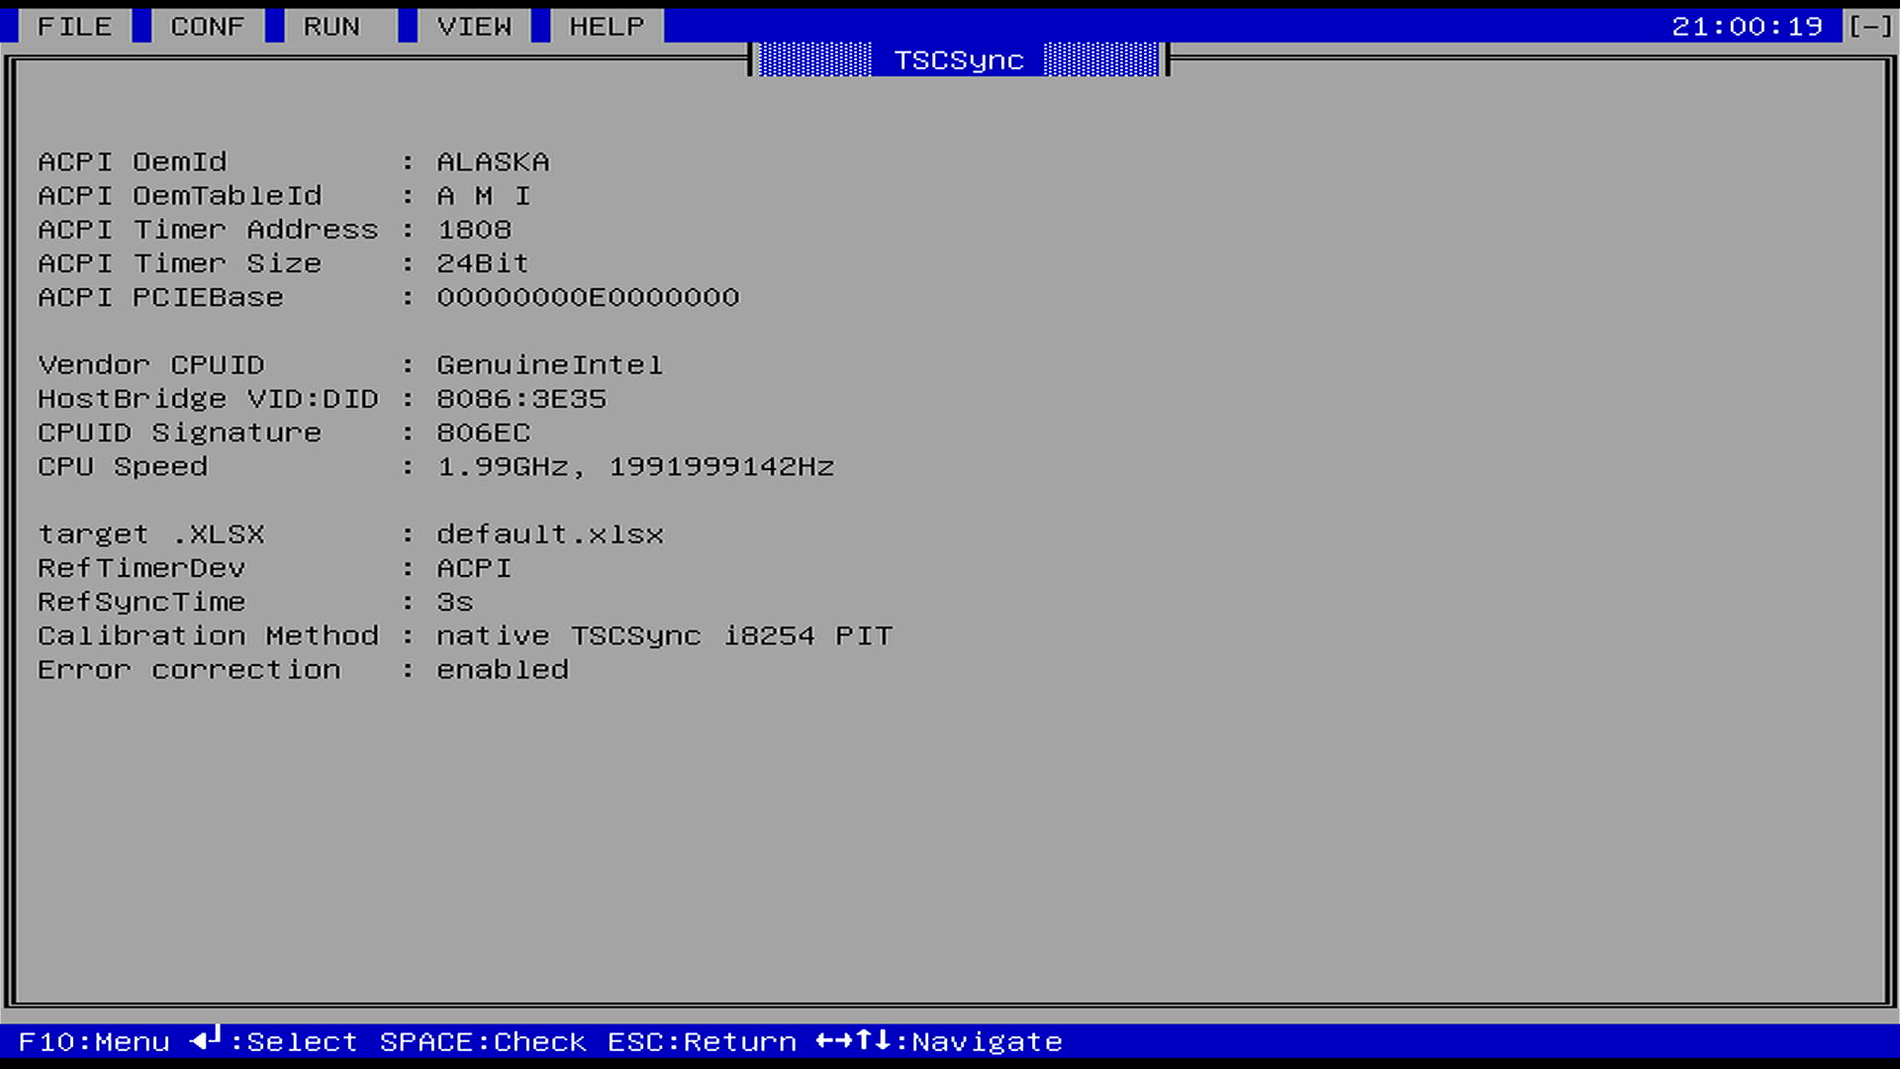
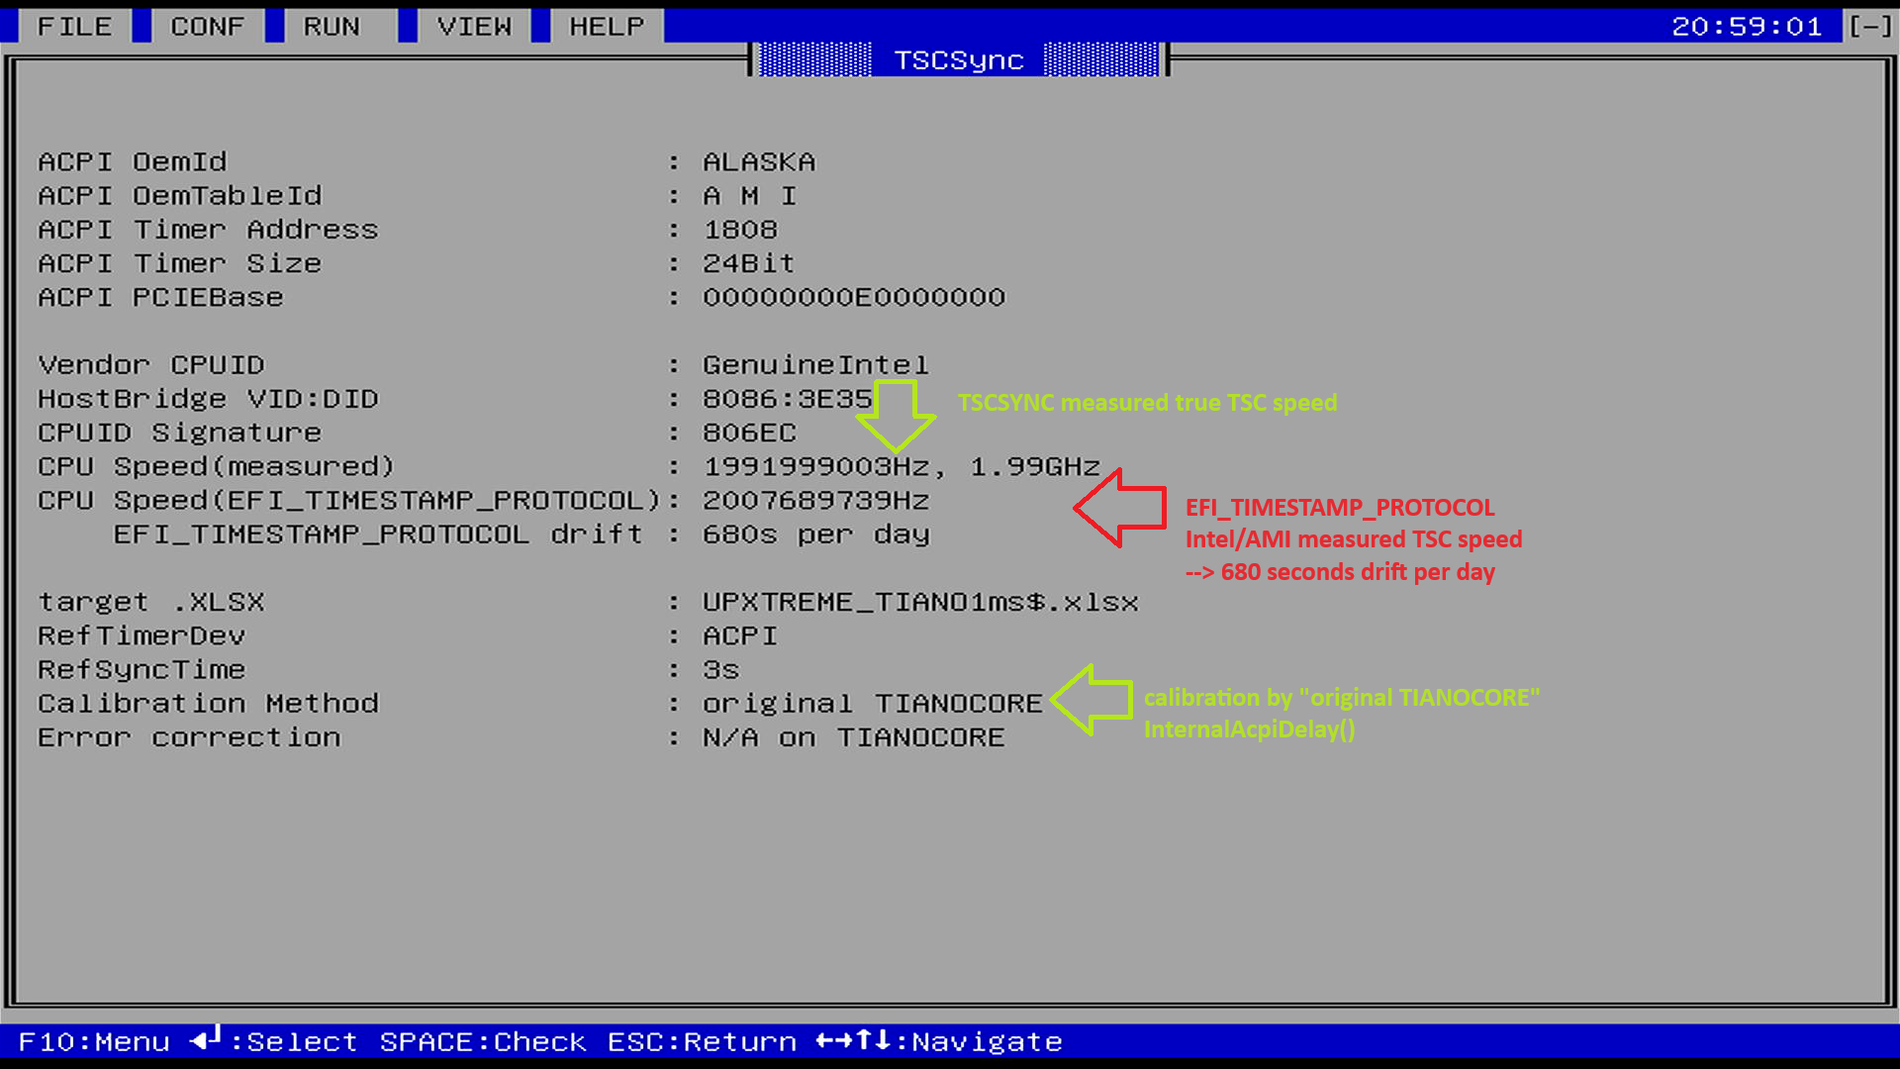
### 20231202 * add retrieval, examination and comparison of original UEFI EFI_TIMESTAMP_PROTOCOL

diff --git a/TSCSync/main.cpp b/TSCSync/main.cpp
@@ -48,6 +48,7 @@ Author:
 #include "LibWin324UEFI.h"
 
 #include <Protocol\AcpiTable.h>
+#include <Protocol\Timestamp.h>
 #include <Guid\Acpi.h>
 #include <IndustryStandard/Acpi62.h>
 #include <IndustryStandard/MemoryMappedConfigurationSpaceAccessTable.h>
@@ -94,6 +95,7 @@ extern "C" WINBASEAPI uint64_t WINAPI GetTickCount64(VOID);
 
 extern void (*rgcbAtUpdate[32])(void* pThis, void* pBox, void* pContext, void* pParm);
 extern void* rgcbAtUpdateParms[32][3];	// array of parameters: void* pThis, void* pBox, void* pContext
+extern "C" char* _strefierror(EFI_STATUS);
 
 #define TYPE char
 #define TYPESIZE sizeof(TYPE)
@@ -171,19 +173,23 @@ extern "C" int  gfErrorCorrection;
 /////////////////////////////////////////////////////////////////////////////
 // global shared data
 /////////////////////////////////////////////////////////////////////////////
-char gstrACPISignature[16];
-char gstrACPIOemId[16];
-char gstrACPIOemTableId[16];
-char gstrACPIPmTmrBlkAddr[8];
-char gACPIPmTmrBlkSize[8];
-char gACPIPCIEBase[24];
+char gstrACPISignature[128];
+char gstrACPIOemId[128];
+char gstrACPIOemTableId[128];
+char gstrACPIPmTmrBlkAddr[128];
+char gACPIPmTmrBlkSize[128];
+char gACPIPCIEBase[128];
 
-char gstrCPUID0[32];
-char gstrCPUIDSig[32];
-char gstrCPUIDFam[32];
-char gstrCPUIDMod[32];
-char gstrCPUIDStp[32];
-char gstrCPUSpeed[48];
+char gstrCPUID0[128];
+char gstrCPUIDSig[128];
+char gstrCPUIDFam[128];
+char gstrCPUIDMod[128];
+char gstrCPUIDStp[128];
+char gstrCPUSpeed[128];
+int64_t gTIMESTAMP_PROTOCOLPerSec;
+int64_t gTIMESTAMP_PROTOCOLSecDriftPerDay;
+char gstrTIMESTAMP_PROTOCOL[128];
+int64_t gTIMESTAMP_PROTOCOLDriftPerDay;
 extern "C" uint32_t gCOUNTER_WIDTH;
 
 int64_t(*pfnDelay)(uint32_t  Delay) = &InternalAcpiDelay;
@@ -218,8 +224,8 @@ static struct {
 		" 2.755ms","29583","363",
 		3 * 3287,363 , &gfCfgMngMnuItm_Config_ACPIDelaySelect3, &statbuf4DiffTSC[2 * MAXNUM], &statbuf4DriftSecPerDay[2 * MAXNUM]},
 	{
-		"144.99us","519","6897",
-		3 * 173,6897 , &gfCfgMngMnuItm_Config_ACPIDelaySelect4, &statbuf4DiffTSC[3 * MAXNUM], &statbuf4DriftSecPerDay[3 * MAXNUM]},
+		" 1.000ms","3579","1000",
+		3579,1000 , &gfCfgMngMnuItm_Config_ACPIDelaySelect4, &statbuf4DiffTSC[3 * MAXNUM], &statbuf4DriftSecPerDay[3 * MAXNUM]},
 	{	"101.41us","363","9861",
 		3 * 121,9861 , &gfCfgMngMnuItm_Config_ACPIDelaySelect5, &statbuf4DiffTSC[4 * MAXNUM], &statbuf4DriftSecPerDay[4 * MAXNUM]},
 };
@@ -563,24 +569,23 @@ int fnMnuItm_File_SaveAs(CTextWindow* pThis, void* pContext, void* pParm)
 			{
 				char strtmp[4* 64];
 				sprintf(strtmp, "TSCSync generated Excel Table\n\nAnalyzing platform timer characteristics\n\n"), worksheet_write_string(worksheet, CELL("B1"), strtmp, bold);
-				sprintf(strtmp, "ACPI OemId         : %s", gstrACPIOemId), worksheet_write_string(worksheet, CELL("B2"), strtmp, bold);
-				sprintf(strtmp, "ACPI OemTableId    : %s", gstrACPIOemTableId), worksheet_write_string(worksheet, CELL("B3"), strtmp, bold);
-				sprintf(strtmp, "ACPI Timer Address : %s", gstrACPIPmTmrBlkAddr), worksheet_write_string(worksheet, CELL("B4"), strtmp, bold);
-				sprintf(strtmp, "ACPI Timer Size    : %s", gACPIPmTmrBlkSize), worksheet_write_string(worksheet, CELL("B5"), strtmp, bold);
-				sprintf(strtmp, "ACPI PCIEBase      : %s", gACPIPCIEBase), worksheet_write_string(worksheet, CELL("B6"), strtmp, bold);
-				sprintf(strtmp, "Vendor CPUID       : %s", gstrCPUID0), worksheet_write_string(worksheet, CELL("B7"), strtmp, bold);
-				sprintf(strtmp, "HostBridge VID:DID : %02X:%02X",((uint16_t*)pMCFG->BaseAddress)[0],((uint16_t*)pMCFG->BaseAddress)[1]), 
-					worksheet_write_string(worksheet, CELL("B8"), strtmp, bold);
-				sprintf(strtmp, "CPUID Signature    : %s", gstrCPUIDSig), worksheet_write_string(worksheet, CELL("B9"), strtmp, bold);
-				//sprintf(strtmp, "Family ID          : %s", gstrCPUIDFam), worksheet_write_string(worksheet, CELL("B10"), strtmp, bold);
-				//sprintf(strtmp, "Model  ID          : %s", gstrCPUIDMod), worksheet_write_string(worksheet, CELL("B11"), strtmp, bold);
-				//sprintf(strtmp, "Stepping ID        : %s", gstrCPUIDStp), worksheet_write_string(worksheet, CELL("B12"), strtmp, bold);
-				sprintf(strtmp, "CPU Speed          : %s", gstrCPUSpeed), worksheet_write_string(worksheet, CELL("B10"), strtmp, bold);
-				sprintf(strtmp, "target .XLSX       : %s", gCfgStr_File_SaveAs), worksheet_write_string(worksheet, CELL("B11"), strtmp, bold);
-                sprintf(strtmp, "RefTimerDev        : %s", 2 == gfCfgSyncRef012 ? "PIT" : (1 == gfCfgSyncRef012 ? "RTC" : "ACPI")), worksheet_write_string(worksheet, CELL("B12"), strtmp, bold);//0 -> ACPI, 1 -> RTC, 2 -> PIT
-				sprintf(strtmp, "RefSyncTime        : %ds", gnCfgRefSyncTime), worksheet_write_string(worksheet, CELL("B13"), strtmp, bold);
-				sprintf(strtmp, "Calibration Method : %s", gCfgStr_CalibrMethod), worksheet_write_string(worksheet, CELL("B14"), strtmp, bold);
-                sprintf(strtmp, "Error correction   : %s", 0 == gfErrorCorrection ? "disabled" : (pfnDelay == &InternalAcpiDelay ? "N/A on TIANOCORE" : "enabled")), worksheet_write_string(worksheet, CELL("B15"), strtmp, bold);
+				sprintf(strtmp, "ACPI OemId: %s", gstrACPIOemId), worksheet_write_string(worksheet, CELL("B2"), strtmp, bold);
+				sprintf(strtmp, "ACPI OemTableId: %s", gstrACPIOemTableId), worksheet_write_string(worksheet, CELL("B3"), strtmp, bold);
+				sprintf(strtmp, "ACPI Timer Address: %s", gstrACPIPmTmrBlkAddr), worksheet_write_string(worksheet, CELL("B4"), strtmp, bold);
+				sprintf(strtmp, "ACPI Timer Size: %s", gACPIPmTmrBlkSize), worksheet_write_string(worksheet, CELL("B5"), strtmp, bold);
+				sprintf(strtmp, "ACPI PCIEBase: %s", gACPIPCIEBase), worksheet_write_string(worksheet, CELL("B6"), strtmp, bold);
+				sprintf(strtmp, "Vendor CPUID: %s", gstrCPUID0), worksheet_write_string(worksheet, CELL("B7"), strtmp, bold);
+				sprintf(strtmp, "HostBridge VID:DID: %02X:%02X",((uint16_t*)pMCFG->BaseAddress)[0],((uint16_t*)pMCFG->BaseAddress)[1]), worksheet_write_string(worksheet, CELL("B8"), strtmp, bold);
+				sprintf(strtmp, "CPUID Signature: %s", gstrCPUIDSig), worksheet_write_string(worksheet, CELL("B9"), strtmp, bold);
+				sprintf(strtmp, "CPU Speed(measured): %s", gstrCPUSpeed), worksheet_write_string(worksheet, CELL("B10"), strtmp, bold);
+				sprintf(strtmp, "CPU Speed(EFI_TIMESTAMP_PROTOCOL): %s", gstrTIMESTAMP_PROTOCOL), worksheet_write_string(worksheet, CELL("B11"), strtmp, bold);
+				if (0 != strncmp(gstrTIMESTAMP_PROTOCOL, "N/A", strlen("N/A")))
+					sprintf(strtmp, "    EFI_TIMESTAMP_PROTOCOL drift : %llds per day", gTIMESTAMP_PROTOCOLSecDriftPerDay), worksheet_write_string(worksheet, CELL("B12"), strtmp, bold);
+				sprintf(strtmp, "target .XLSX: %s", gCfgStr_File_SaveAs), worksheet_write_string(worksheet, CELL("B13"), strtmp, bold);
+                sprintf(strtmp, "RefTimerDev: %s", 2 == gfCfgSyncRef012 ? "PIT" : (1 == gfCfgSyncRef012 ? "RTC" : "ACPI")), worksheet_write_string(worksheet, CELL("B14"), strtmp, bold);//0 -> ACPI, 1 -> RTC, 2 -> PIT
+				sprintf(strtmp, "RefSyncTime: %ds", gnCfgRefSyncTime), worksheet_write_string(worksheet, CELL("B15"), strtmp, bold);
+				sprintf(strtmp, "Calibration Method: %s", gCfgStr_CalibrMethod), worksheet_write_string(worksheet, CELL("B16"), strtmp, bold);
+                sprintf(strtmp, "Error correction: %s", 0 == gfErrorCorrection ? "disabled" : (pfnDelay == &InternalAcpiDelay ? "N/A on TIANOCORE" : "enabled")), worksheet_write_string(worksheet, CELL("B17"), strtmp, bold);
 
 			}
 
@@ -661,7 +666,7 @@ int fnMnuItm_File_SaveAs(CTextWindow* pThis, void* pContext, void* pParm)
 
 				}
 				chart_title_set_name(chart, "Overall preview, drift in seconds per day. Parameter:\nCalibration time");
-				worksheet_insert_chart(worksheet, CELL("B16"), chart);
+				worksheet_insert_chart(worksheet, CELL("B20"), chart);
 			}
 
             //
@@ -705,7 +710,7 @@ int fnMnuItm_File_SaveAs(CTextWindow* pThis, void* pContext, void* pParm)
 
                 chartsheet_set_landscape(chartsheet1);
 
-                worksheet_insert_chart(worksheet, CELL("B32"), chart);
+                worksheet_insert_chart(worksheet, CELL("B36"), chart);
             }
 
 			//
@@ -819,28 +824,28 @@ int fnMnuItm_View_SysInfo(CTextWindow* pThis, void* pContext, void* pParm)
 		//
 		// write system configuration
 		// 
-		pRoot->TextPrint({ 2, 4 }, EFI_BACKGROUND_LIGHTGRAY | EFI_BLACK, "ACPI OemId         : %s", gstrACPIOemId);
-		pRoot->TextPrint({ 2, 5 }, EFI_BACKGROUND_LIGHTGRAY | EFI_BLACK, "ACPI OemTableId    : %s", gstrACPIOemTableId);
-		pRoot->TextPrint({ 2, 6 }, EFI_BACKGROUND_LIGHTGRAY | EFI_BLACK, "ACPI Timer Address : %s", gstrACPIPmTmrBlkAddr);
-		pRoot->TextPrint({ 2, 7 }, EFI_BACKGROUND_LIGHTGRAY | EFI_BLACK, "ACPI Timer Size    : %s", gACPIPmTmrBlkSize);
-		pRoot->TextPrint({ 2, 8 }, EFI_BACKGROUND_LIGHTGRAY | EFI_BLACK, "ACPI PCIEBase      : %s", gACPIPCIEBase);
+		pRoot->TextPrint({ 2, 4 }, EFI_BACKGROUND_LIGHTGRAY | EFI_BLACK,  "ACPI OemId                       : %s", gstrACPIOemId);
+		pRoot->TextPrint({ 2, 5 }, EFI_BACKGROUND_LIGHTGRAY | EFI_BLACK,  "ACPI OemTableId                  : %s", gstrACPIOemTableId);
+		pRoot->TextPrint({ 2, 6 }, EFI_BACKGROUND_LIGHTGRAY | EFI_BLACK,  "ACPI Timer Address               : %s", gstrACPIPmTmrBlkAddr);
+		pRoot->TextPrint({ 2, 7 }, EFI_BACKGROUND_LIGHTGRAY | EFI_BLACK,  "ACPI Timer Size                  : %s", gACPIPmTmrBlkSize);
+		pRoot->TextPrint({ 2, 8 }, EFI_BACKGROUND_LIGHTGRAY | EFI_BLACK,  "ACPI PCIEBase                    : %s", gACPIPCIEBase);
 
-		pRoot->TextPrint({ 2, 10 }, EFI_BACKGROUND_LIGHTGRAY | EFI_BLACK,"Vendor CPUID       : %s", gstrCPUID0);
-		pRoot->TextPrint({ 2, 11 }, EFI_BACKGROUND_LIGHTGRAY | EFI_BLACK, "HostBridge VID:DID : %02X:%02X",
+		pRoot->TextPrint({ 2, 10 }, EFI_BACKGROUND_LIGHTGRAY | EFI_BLACK, "Vendor CPUID                     : %s", gstrCPUID0);
+		pRoot->TextPrint({ 2, 11 }, EFI_BACKGROUND_LIGHTGRAY | EFI_BLACK, "HostBridge VID:DID               : %02X:%02X",
 			((uint16_t*)pMCFG->BaseAddress)[0],
 			((uint16_t*)pMCFG->BaseAddress)[1]
 		);
-		pRoot->TextPrint({ 2, 12 }, EFI_BACKGROUND_LIGHTGRAY | EFI_BLACK,"CPUID Signature    : %s", gstrCPUIDSig);
-		//pRoot->TextPrint({ 2, 13 }, EFI_BACKGROUND_LIGHTGRAY | EFI_BLACK,"Family ID          : %s", gstrCPUIDFam);
-		//pRoot->TextPrint({ 2, 14 }, EFI_BACKGROUND_LIGHTGRAY | EFI_BLACK,"Model  ID          : %s", gstrCPUIDMod);
-		//pRoot->TextPrint({ 2, 15 }, EFI_BACKGROUND_LIGHTGRAY | EFI_BLACK,"Stepping ID        : %s", gstrCPUIDStp);
-		pRoot->TextPrint({ 2, 13 }, EFI_BACKGROUND_LIGHTGRAY | EFI_BLACK, "CPU Speed          : %s", gstrCPUSpeed);
+		pRoot->TextPrint({ 2, 12 }, EFI_BACKGROUND_LIGHTGRAY | EFI_BLACK, "CPUID Signature                  : %s", gstrCPUIDSig);
+		pRoot->TextPrint({ 2, 13 }, EFI_BACKGROUND_LIGHTGRAY | EFI_BLACK, "CPU Speed(measured)              : %s", gstrCPUSpeed);
+		pRoot->TextPrint({ 2, 14 }, EFI_BACKGROUND_LIGHTGRAY | EFI_BLACK, "CPU Speed(EFI_TIMESTAMP_PROTOCOL): %s", gstrTIMESTAMP_PROTOCOL);
+		if (0 != strncmp(gstrTIMESTAMP_PROTOCOL, "N/A", strlen("N/A")))
+			pRoot->TextPrint({ 2, 15 }, EFI_BACKGROUND_LIGHTGRAY | EFI_BLACK, "    EFI_TIMESTAMP_PROTOCOL drift : %llds per day", gTIMESTAMP_PROTOCOLSecDriftPerDay);
 
-		pRoot->TextPrint({ 2, 15 }, EFI_BACKGROUND_LIGHTGRAY | EFI_BLACK, "target .XLSX       : %s", gCfgStr_File_SaveAs);
-        pRoot->TextPrint({ 2, 16 }, EFI_BACKGROUND_LIGHTGRAY | EFI_BLACK, "RefTimerDev        : %s", 2 == gfCfgSyncRef012 ? "PIT" : (1 == gfCfgSyncRef012 ? "RTC" : "ACPI"));//0 -> ACPI, 1 -> RTC, 2 -> PIT
-		pRoot->TextPrint({ 2, 17 }, EFI_BACKGROUND_LIGHTGRAY | EFI_BLACK, "RefSyncTime        : %ds", gnCfgRefSyncTime);
-		pRoot->TextPrint({ 2, 18 }, EFI_BACKGROUND_LIGHTGRAY | EFI_BLACK, "Calibration Method : %s", gCfgStr_CalibrMethod);
-        pRoot->TextPrint({ 2, 19 }, EFI_BACKGROUND_LIGHTGRAY | EFI_BLACK, "Error correction   : %s", 0 == gfErrorCorrection ? "disabled" : (pfnDelay == &InternalAcpiDelay ? "N/A on TIANOCORE" : "enabled"));
+		pRoot->TextPrint({ 2, 17 }, EFI_BACKGROUND_LIGHTGRAY | EFI_BLACK, "target .XLSX                     : %s", gCfgStr_File_SaveAs);
+        pRoot->TextPrint({ 2, 18 }, EFI_BACKGROUND_LIGHTGRAY | EFI_BLACK, "RefTimerDev                      : %s", 2 == gfCfgSyncRef012 ? "PIT" : (1 == gfCfgSyncRef012 ? "RTC" : "ACPI"));//0 -> ACPI, 1 -> RTC, 2 -> PIT
+		pRoot->TextPrint({ 2, 19 }, EFI_BACKGROUND_LIGHTGRAY | EFI_BLACK, "RefSyncTime                      : %ds", gnCfgRefSyncTime);
+		pRoot->TextPrint({ 2, 20 }, EFI_BACKGROUND_LIGHTGRAY | EFI_BLACK, "Calibration Method               : %s", gCfgStr_CalibrMethod);
+        pRoot->TextPrint({ 2, 21 }, EFI_BACKGROUND_LIGHTGRAY | EFI_BLACK, "Error correction                 : %s", 0 == gfErrorCorrection ? "disabled" : (pfnDelay == &InternalAcpiDelay ? "N/A on TIANOCORE" : "enabled"));
 	}
 	return 0;
 }
@@ -908,14 +913,14 @@ const wchar_t* wcsTimerDelayAcpiStrings[2][5] =
 		L"- Calibration Time: 1.0000 s      ",
 		L"- Calibration Time: 52.632 ms     ",
 		L"- Calibration Time:  2.755 ms     ",
-		L"- Calibration Time: 144.99 us     ",
+		L"- Calibration Time:  1.000 ms     ",
 		L"- Calibration Time: 101.41 us     "
 	},
 	{
 		L"+ Calibration Time: 1.0000 s      ",
 		L"+ Calibration Time: 52.632 ms     ",
 		L"+ Calibration Time:  2.755 ms     ",
-		L"+ Calibration Time: 144.99 us     ",
+		L"+ Calibration Time:  1.000 ms     ",
 		L"+ Calibration Time: 101.41 us     "
 	},
 };
@@ -1303,12 +1308,42 @@ int main(int argc, char** argv)
     //
     _outp(0x61, 0);                          // stop counter
     _outp(0x43, (2/*TIMER*/ << 6) + 0x34);   // program timer 2 for MODE 2
-    _outp(0x42, 0x0);                       // write counter value low 65535
-    _outp(0x42, 0x0);                       // write counter value high 65535
+    _outp(0x42, 0x0);                        // write counter value low 65535
+    _outp(0x42, 0x0);                        // write counter value high 65535
     _outp(0x61, 1);                          // start counter
 
+	//
+	// EFI_TIMESTAMP_PROTOCOL
+	//
+	if (1)
+	{
+		EFI_STATUS Status;
+		EFI_GUID efi_timestamp_protocol_guid = EFI_TIMESTAMP_PROTOCOL_GUID;
+		EFI_TIMESTAMP_PROTOCOL* pEFI_TIMESTAMP_PROTOCOL = (EFI_TIMESTAMP_PROTOCOL*)-1;
+		EFI_TIMESTAMP_PROPERTIES efi_timestamp_properties;
+		int i, synctime = 3, token;
 
-	//exit(EXIT_SUCCESS);
+		Status = gSystemTable->BootServices->LocateProtocol(&efi_timestamp_protocol_guid, NULL, (void**) &pEFI_TIMESTAMP_PROTOCOL);
+		
+		gTIMESTAMP_PROTOCOLPerSec = 0;
+
+		if (EFI_SUCCESS != Status)
+		{
+			sprintf(gstrTIMESTAMP_PROTOCOL,"N/A, \"%s\"", _strefierror(Status));
+		
+		}
+		else {
+			Status = pEFI_TIMESTAMP_PROTOCOL->GetProperties(&efi_timestamp_properties);
+			if (EFI_SUCCESS != Status)
+				sprintf(gstrTIMESTAMP_PROTOCOL, "N/A, \"%s\n", _strefierror(Status));
+			else
+				sprintf(gstrTIMESTAMP_PROTOCOL, "%lldHz", efi_timestamp_properties.Frequency),
+				gTIMESTAMP_PROTOCOLPerSec = (int64_t)efi_timestamp_properties.Frequency;
+
+		}
+
+
+	}
 
 	DataSize2 = GetSystemFirmwareTable('ACPI', 'GFCM', pMCFG, 32768 * 8);
 	sprintf(gACPIPCIEBase, "%p", pMCFG->BaseAddress);
@@ -1718,6 +1753,18 @@ int main(int argc, char** argv)
 		}
 
 		gTSCPerSecondReference = (int64_t)((qwTSCEnd - qwTSCStart) / SECONDS);
+		
+		if (1)
+		{
+			int64_t gTSCPerDayReference = (int64_t)(86400 * (qwTSCEnd - qwTSCStart) / SECONDS);
+			/*
+			                                        gTIMESTAMP_PROTOCOLPerSec * 86400 
+				gTIMESTAMP_PROTOCOLSecDriftPerDay = --------------------------------- - 86400
+				                                             gTSCPerDayReference
+			*/
+			gTIMESTAMP_PROTOCOLSecDriftPerDay = ((gTIMESTAMP_PROTOCOLPerSec * 86400) / gTSCPerSecondReference) - 86400;
+		}
+		
 
 		printf("%s sync base: diff %lld\n", 2 == gfCfgSyncRef012 ? "PIT" : (1 == gfCfgSyncRef012 ? "RTC" : "ACPI"), (qwTSCEnd - qwTSCStart) / SECONDS);
 	}
@@ -1739,7 +1786,7 @@ int main(int argc, char** argv)
 
 		sprintf(buffer, "%lld", 4 * (endTSC - startTSC));
 
-		sprintf(gstrCPUSpeed, "%c.%c%cGHz, %lldHz", buffer[0], buffer[1], buffer[2], gTSCPerSecondReference);
+		sprintf(gstrCPUSpeed, "%lldHz, %c.%c%cGHz", gTSCPerSecondReference, buffer[0], buffer[1], buffer[2]);
 	}
 
 	do
@@ -1851,28 +1898,28 @@ int main(int argc, char** argv)
 		//
 		// write system configuration
 		// 
-		FullScreen.TextPrint({ 2, 4 }, EFI_BACKGROUND_LIGHTGRAY | EFI_BLACK, "ACPI OemId         : %s", gstrACPIOemId);
-		FullScreen.TextPrint({ 2, 5 }, EFI_BACKGROUND_LIGHTGRAY | EFI_BLACK, "ACPI OemTableId    : %s", gstrACPIOemTableId);
-		FullScreen.TextPrint({ 2, 6 }, EFI_BACKGROUND_LIGHTGRAY | EFI_BLACK, "ACPI Timer Address : %s", gstrACPIPmTmrBlkAddr);
-		FullScreen.TextPrint({ 2, 7 }, EFI_BACKGROUND_LIGHTGRAY | EFI_BLACK, "ACPI Timer Size    : %s", gACPIPmTmrBlkSize);
-		FullScreen.TextPrint({ 2, 8 }, EFI_BACKGROUND_LIGHTGRAY | EFI_BLACK, "ACPI PCIEBase      : %s", gACPIPCIEBase);
+		FullScreen.TextPrint({ 2, 4 }, EFI_BACKGROUND_LIGHTGRAY | EFI_BLACK,  "ACPI OemId                       : %s", gstrACPIOemId);
+		FullScreen.TextPrint({ 2, 5 }, EFI_BACKGROUND_LIGHTGRAY | EFI_BLACK,  "ACPI OemTableId                  : %s", gstrACPIOemTableId);
+		FullScreen.TextPrint({ 2, 6 }, EFI_BACKGROUND_LIGHTGRAY | EFI_BLACK,  "ACPI Timer Address               : %s", gstrACPIPmTmrBlkAddr);
+		FullScreen.TextPrint({ 2, 7 }, EFI_BACKGROUND_LIGHTGRAY | EFI_BLACK,  "ACPI Timer Size                  : %s", gACPIPmTmrBlkSize);
+		FullScreen.TextPrint({ 2, 8 }, EFI_BACKGROUND_LIGHTGRAY | EFI_BLACK,  "ACPI PCIEBase                    : %s", gACPIPCIEBase);
 
-		FullScreen.TextPrint({ 2, 10 }, EFI_BACKGROUND_LIGHTGRAY | EFI_BLACK, "Vendor CPUID       : %s", gstrCPUID0);
-		FullScreen.TextPrint({ 2, 11 }, EFI_BACKGROUND_LIGHTGRAY | EFI_BLACK, "HostBridge VID:DID : %02X:%02X",
+		FullScreen.TextPrint({ 2, 10 }, EFI_BACKGROUND_LIGHTGRAY | EFI_BLACK, "Vendor CPUID                     : %s", gstrCPUID0);
+		FullScreen.TextPrint({ 2, 11 }, EFI_BACKGROUND_LIGHTGRAY | EFI_BLACK, "HostBridge VID:DID               : %02X:%02X",
 			((uint16_t*)pMCFG->BaseAddress)[0],
 			((uint16_t*)pMCFG->BaseAddress)[1]
 		);
-		FullScreen.TextPrint({ 2, 12 }, EFI_BACKGROUND_LIGHTGRAY | EFI_BLACK,"CPUID Signature    : %s", gstrCPUIDSig);
-		//FullScreen.TextPrint({ 2, 13 }, EFI_BACKGROUND_LIGHTGRAY | EFI_BLACK,"Family ID          : %s", gstrCPUIDFam);
-		//FullScreen.TextPrint({ 2, 14 }, EFI_BACKGROUND_LIGHTGRAY | EFI_BLACK,"Model  ID          : %s", gstrCPUIDMod);
-		//FullScreen.TextPrint({ 2, 15 }, EFI_BACKGROUND_LIGHTGRAY | EFI_BLACK, "Stepping ID        : %s", gstrCPUIDStp);
-		FullScreen.TextPrint({ 2, 13 }, EFI_BACKGROUND_LIGHTGRAY | EFI_BLACK, "CPU Speed          : %s", gstrCPUSpeed);
+		FullScreen.TextPrint({ 2, 12 }, EFI_BACKGROUND_LIGHTGRAY | EFI_BLACK, "CPUID Signature                  : %s", gstrCPUIDSig);
+		FullScreen.TextPrint({ 2, 13 }, EFI_BACKGROUND_LIGHTGRAY | EFI_BLACK, "CPU Speed(measured)              : %s", gstrCPUSpeed);
+		FullScreen.TextPrint({ 2, 14 }, EFI_BACKGROUND_LIGHTGRAY | EFI_BLACK, "CPU Speed(EFI_TIMESTAMP_PROTOCOL): %s", gstrTIMESTAMP_PROTOCOL);
+		if (0 != strncmp(gstrTIMESTAMP_PROTOCOL, "N/A", strlen("N/A")))
+			FullScreen.TextPrint({ 2, 15 }, EFI_BACKGROUND_LIGHTGRAY | EFI_BLACK, "    EFI_TIMESTAMP_PROTOCOL drift : %llds per day", gTIMESTAMP_PROTOCOLSecDriftPerDay);
 
-		FullScreen.TextPrint({ 2, 15 }, EFI_BACKGROUND_LIGHTGRAY | EFI_BLACK, "target .XLSX       : %s", gCfgStr_File_SaveAs);
-		FullScreen.TextPrint({ 2, 16 }, EFI_BACKGROUND_LIGHTGRAY | EFI_BLACK, "RefTimerDev        : %s", 2 == gfCfgSyncRef012 ? "PIT" : (1 == gfCfgSyncRef012 ? "RTC" : "ACPI"));
-		FullScreen.TextPrint({ 2, 17 }, EFI_BACKGROUND_LIGHTGRAY | EFI_BLACK, "RefSyncTime        : %ds", gnCfgRefSyncTime);
-		FullScreen.TextPrint({ 2, 18 }, EFI_BACKGROUND_LIGHTGRAY | EFI_BLACK, "Calibration Method : %s", gCfgStr_CalibrMethod);
-        FullScreen.TextPrint({ 2, 19 }, EFI_BACKGROUND_LIGHTGRAY | EFI_BLACK, "Error correction   : %s", 0 == gfErrorCorrection ? "disabled" : (pfnDelay == &InternalAcpiDelay ? "N/A on TIANOCORE" : "enabled"));
+		FullScreen.TextPrint({ 2, 17 }, EFI_BACKGROUND_LIGHTGRAY | EFI_BLACK, "target .XLSX                     : %s", gCfgStr_File_SaveAs);
+		FullScreen.TextPrint({ 2, 18 }, EFI_BACKGROUND_LIGHTGRAY | EFI_BLACK, "RefTimerDev                      : %s", 2 == gfCfgSyncRef012 ? "PIT" : (1 == gfCfgSyncRef012 ? "RTC" : "ACPI"));
+		FullScreen.TextPrint({ 2, 19 }, EFI_BACKGROUND_LIGHTGRAY | EFI_BLACK, "RefSyncTime                      : %ds", gnCfgRefSyncTime);
+		FullScreen.TextPrint({ 2, 20 }, EFI_BACKGROUND_LIGHTGRAY | EFI_BLACK, "Calibration Method               : %s", gCfgStr_CalibrMethod);
+        FullScreen.TextPrint({ 2, 21 }, EFI_BACKGROUND_LIGHTGRAY | EFI_BLACK, "Error correction                 : %s", 0 == gfErrorCorrection ? "disabled" : (pfnDelay == &InternalAcpiDelay ? "N/A on TIANOCORE" : "enabled"));
 		
 		
 		if (true == gfAutoRun)

diff --git a/README.md b/README.md
@@ -9,6 +9,10 @@ TSCSync - TimeStampCounter (TSC) synchronizer,  analyze System Timer characteris
 
 ![XLSXSheet1](XLSXSheet1.png)
 
+![XLSXSheet1](XLSXSheet2.png)
+
+![XLSXSheet1](XLSXSheet3.png)
+
 ## Intention
 Explore timer characteristics on current UEFI Personal Computer (PC) hardware.
 
@@ -46,6 +50,9 @@ This mode was made available to enable repeated .NSH/batch controlled
 Just watch the video: https://www.youtube.com/watch?v=hjeykqZqekc&t=27s
 
 ## Revision history
+### 20231202
+* add retrieval, examination and comparison of original **UEFI** **`EFI_TIMESTAMP_PROTOCOL`**<br>
+  NOTE: **`EFI_TIMESTAMP_PROTOCOL`** provides inaccurate results on most systems.
 ### 20231119
 * add error correction menu `CONF\Error Correction` and command line (`/ERRCODIS`) selectable
 	* NOTE: Error correction N/A for original TIANOCORE (TIANO) measurement method<br>
